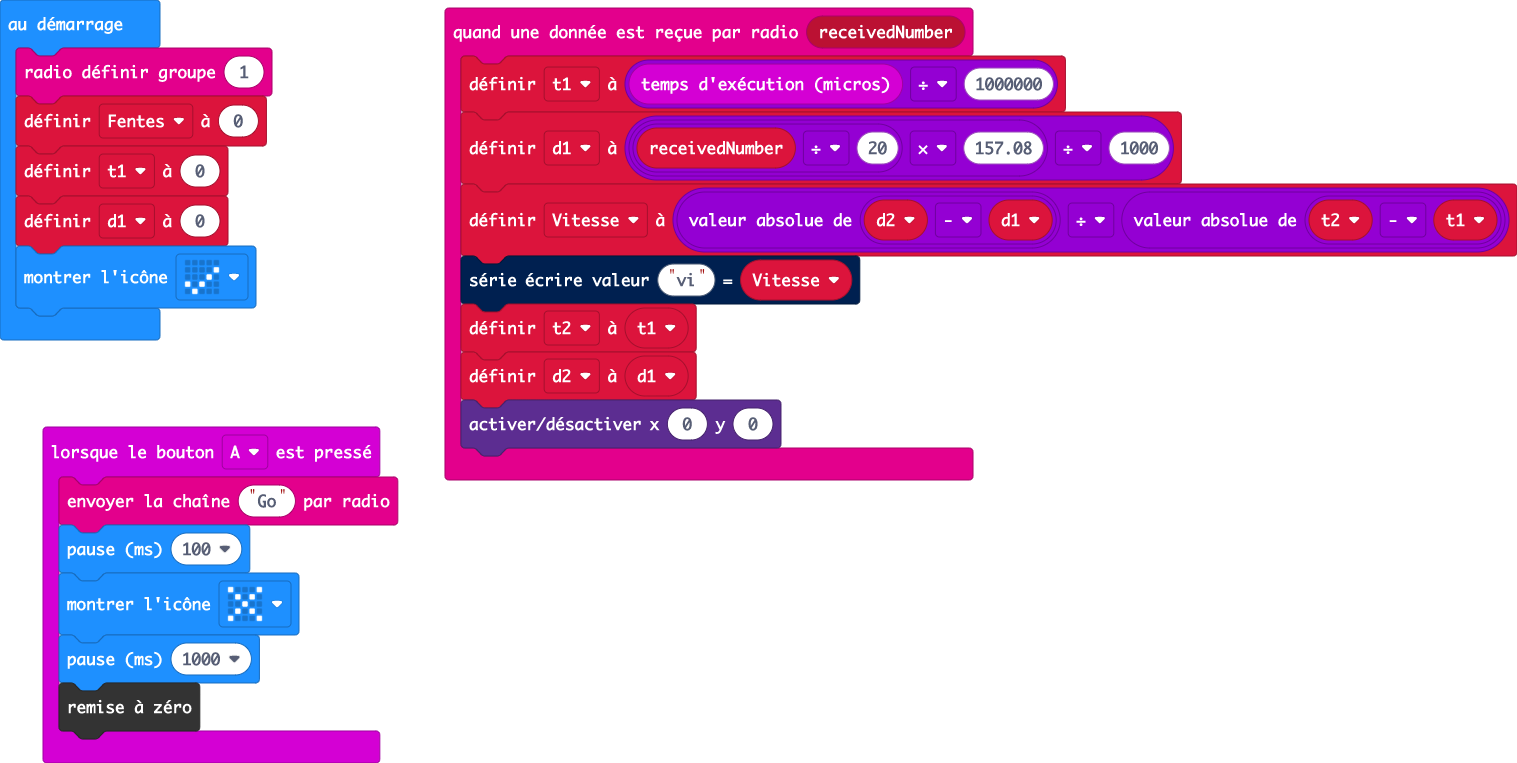
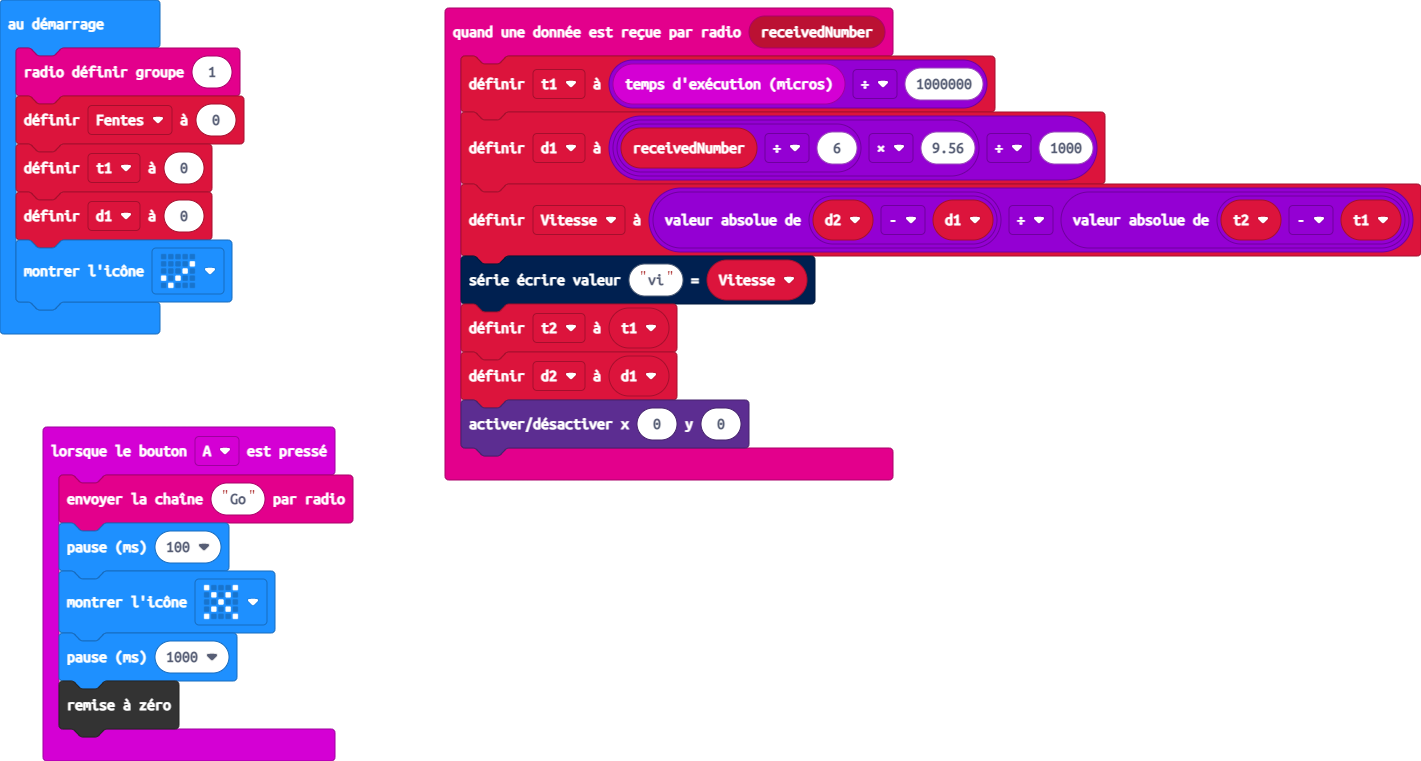
Mise à jour main.blocks, main.ts

Changed region(s): [[0.0, 0.0, 1.0, 0.9974], [0.0, 0.0, 0.1858, 0.4534], [0.2167, 0.9369, 0.2787, 1.0]]

diff --git a/main.ts b/main.ts
@@ -1,6 +1,6 @@
 radio.onReceivedNumber(function (receivedNumber) {
     t1 = input.runningTimeMicros() / 1000000
-    d1 = receivedNumber / 20 * 157.08 / 1000
+    d1 = receivedNumber / 6 * 9.56 / 1000
     Vitesse = Math.abs(d2 - d1) / Math.abs(t2 - t1)
     serial.writeValue("vi", Vitesse)
     t2 = t1
